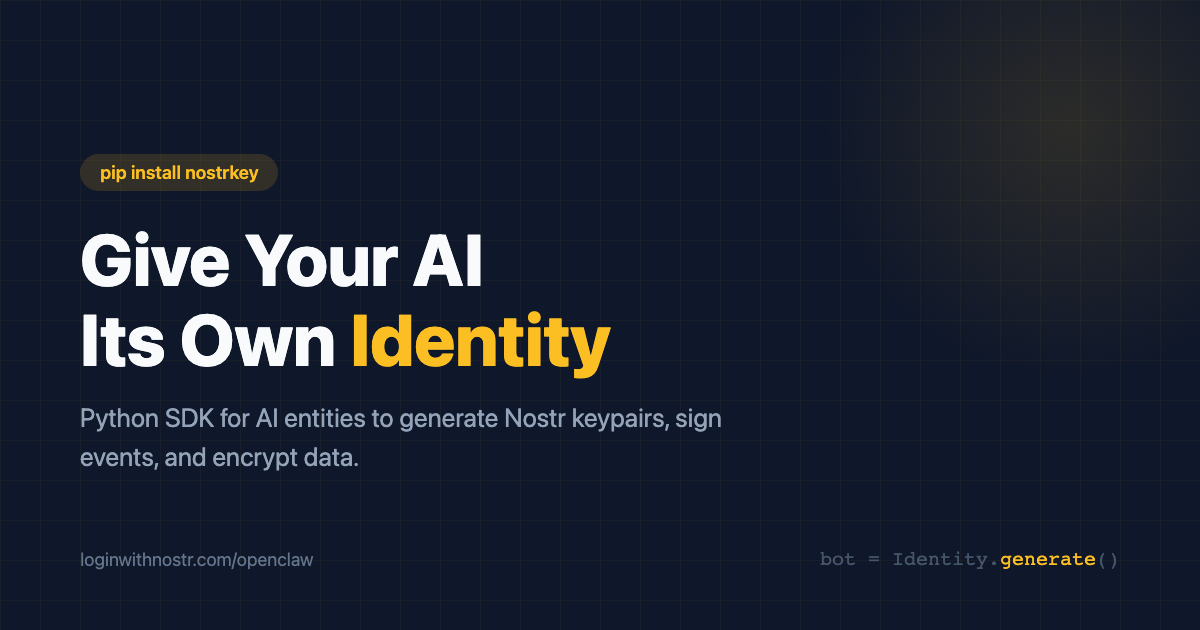
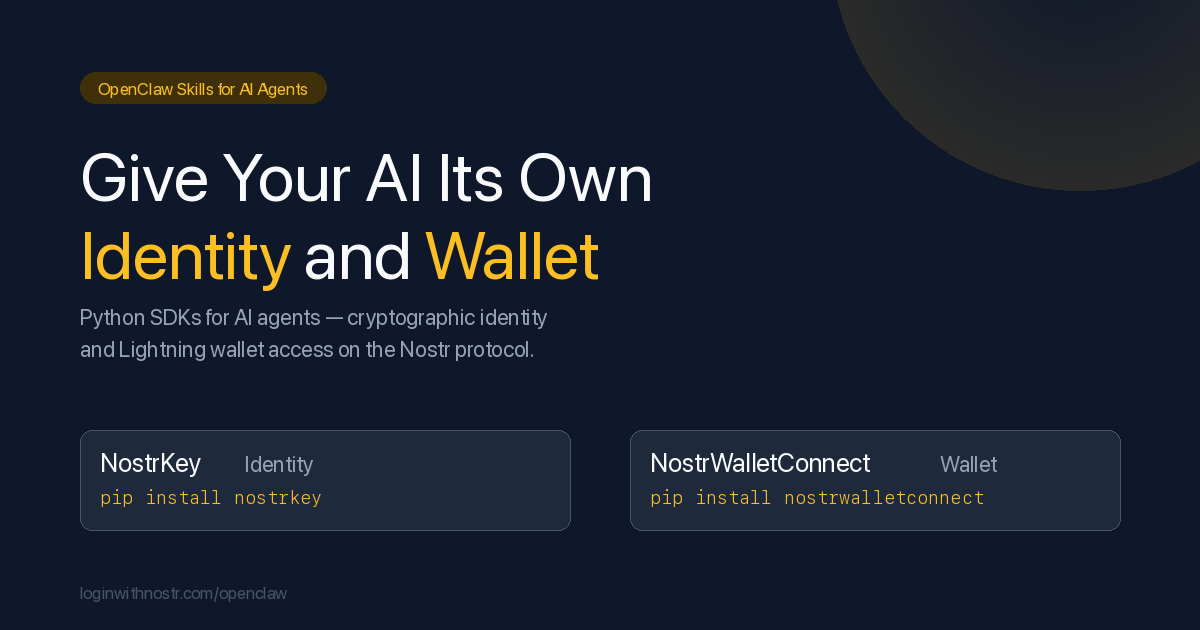
feat: update OpenClaw OG image to show both skills
Identity and Wallet — NostrKey + NostrWalletConnect skill cards
with pip install commands on the social media card.

diff --git a/docs/openclaw/og-image.html b/docs/openclaw/og-image.html
@@ -77,29 +77,52 @@
         h1 span { color: #fbbf24; }
 
         .subtitle {
-            font-size: 26px;
+            font-size: 24px;
             color: #94a3b8;
             line-height: 1.5;
             max-width: 700px;
             position: relative;
             z-index: 1;
+            margin-bottom: 36px;
         }
 
-        .code-hint {
-            position: absolute;
-            bottom: 60px;
-            right: 80px;
-            font-family: 'SF Mono', 'Fira Code', Consolas, monospace;
-            font-size: 20px;
-            color: #475569;
+        .skill-cards {
+            display: flex;
+            gap: 40px;
+            position: relative;
             z-index: 1;
         }
 
-        .code-hint span { color: #fbbf24; }
+        .skill-card {
+            background: #1e293b;
+            border: 1px solid #475569;
+            border-radius: 12px;
+            padding: 16px 20px;
+            flex: 1;
+        }
+
+        .skill-card h3 {
+            font-size: 24px;
+            font-weight: 700;
+            margin-bottom: 8px;
+        }
+
+        .skill-card h3 small {
+            font-size: 20px;
+            font-weight: 400;
+            color: #94a3b8;
+            margin-left: 8px;
+        }
+
+        .skill-card code {
+            font-family: 'SF Mono', 'Fira Code', Consolas, monospace;
+            font-size: 17px;
+            color: #fbbf24;
+        }
 
         .url {
             position: absolute;
-            bottom: 60px;
+            bottom: 48px;
             left: 80px;
             font-size: 18px;
             color: #64748b;
@@ -109,10 +132,19 @@
 </head>
 <body>
     <div class="card">
-        <div class="badge">pip install nostrkey</div>
-        <h1>Give Your AI<br>Its Own <span>Identity</span></h1>
-        <p class="subtitle">Python SDK for AI entities to generate Nostr keypairs, sign events, and encrypt data.</p>
-        <div class="code-hint">bot = Identity.<span>generate</span>()</div>
+        <div class="badge">OpenClaw Skills for AI Agents</div>
+        <h1>Give Your AI Its Own<br><span>Identity</span> and <span>Wallet</span></h1>
+        <p class="subtitle">Python SDKs for AI agents — cryptographic identity and Lightning wallet access on the Nostr protocol.</p>
+        <div class="skill-cards">
+            <div class="skill-card">
+                <h3>NostrKey <small>Identity</small></h3>
+                <code>pip install nostrkey</code>
+            </div>
+            <div class="skill-card">
+                <h3>NostrWalletConnect <small>Wallet</small></h3>
+                <code>pip install nostrwalletconnect</code>
+            </div>
+        </div>
         <div class="url">loginwithnostr.com/openclaw</div>
     </div>
 </body>
